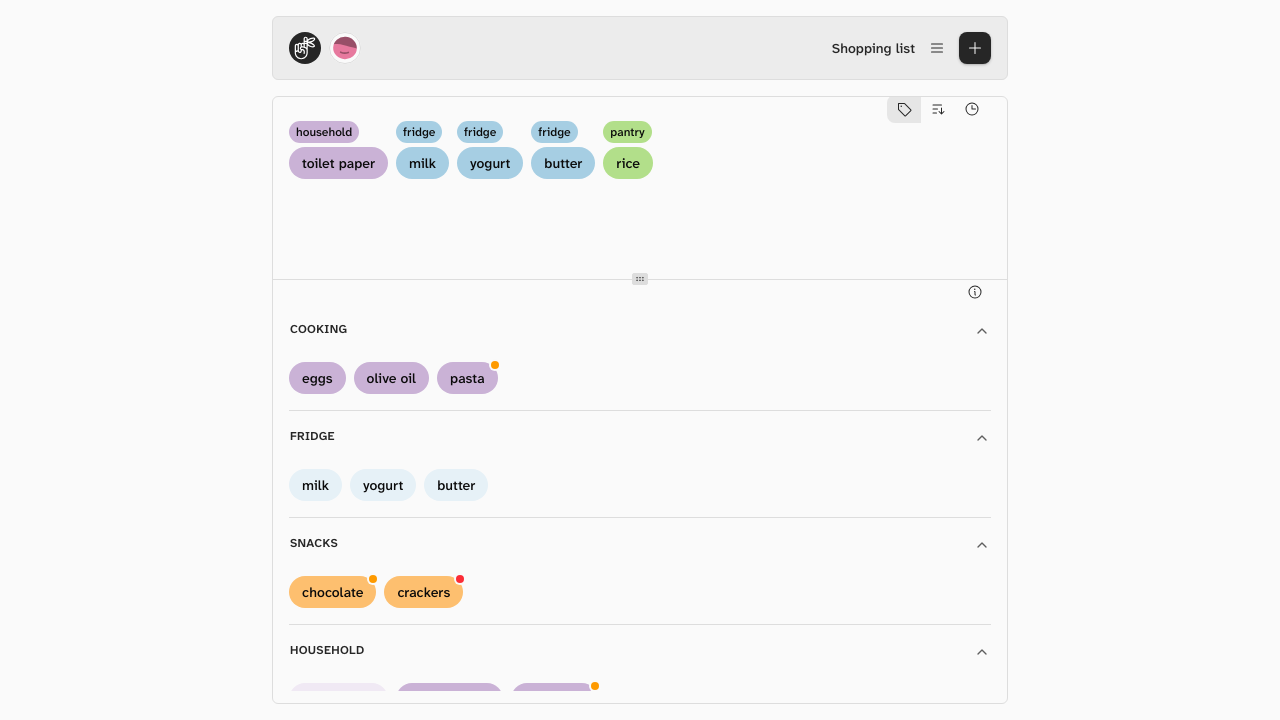
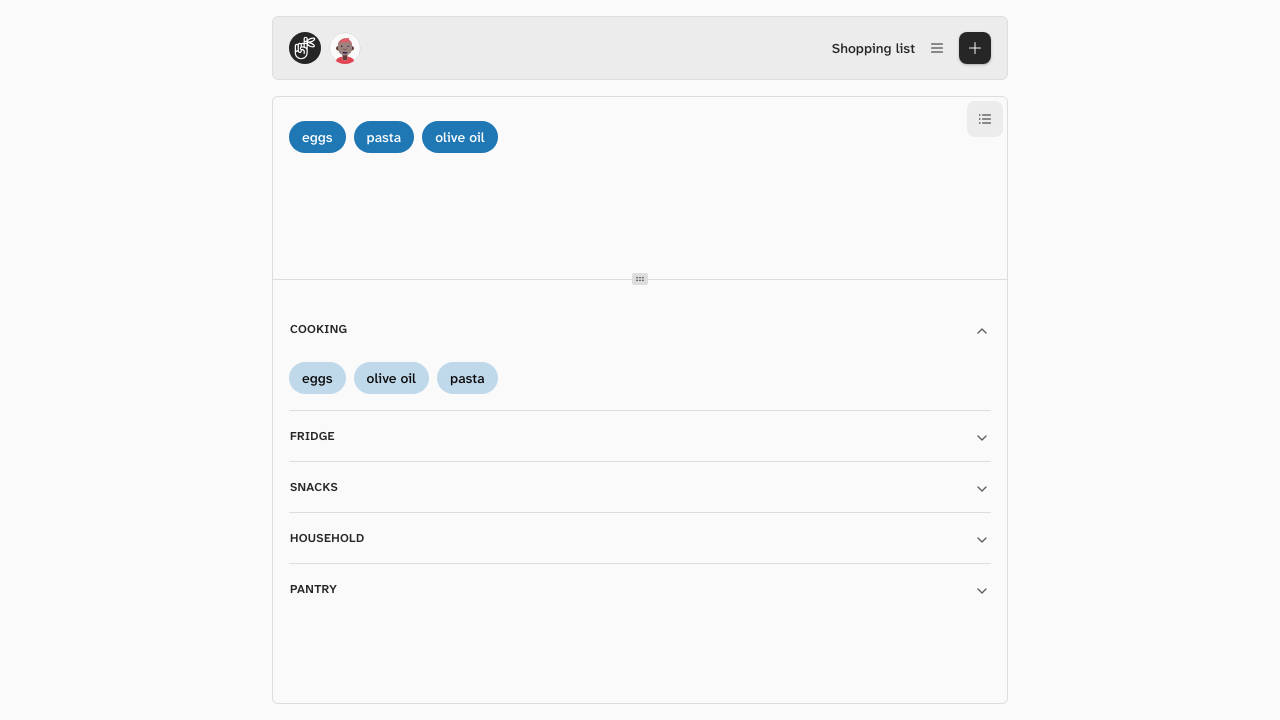
chore: release v3.4.0

diff --git a/src/views/about.tsx b/src/views/about.tsx
@@ -68,9 +68,9 @@ const AboutView = () => (
           items consistently across the app.
         </li>
         <li>
-          <strong>Ordering controls</strong>: toggle category grouping and sort
-          your list by category/name or most recently added — your choice is
-          remembered.
+          <strong>Ordering controls</strong>: a floating sort button cycles your
+          list between category/name, most-recently-added, and alphabetical
+          (A–Z) — your choice is remembered.
         </li>
         <li>
           <strong>Theme</strong>: pick dark, light, or system and your

diff --git a/src/views/help.tsx b/src/views/help.tsx
@@ -46,7 +46,8 @@ const HelpView = () => (
         </li>
         <li>
           Your list is grouped by category. Check items off as you put them in
-          the cart.
+          the cart. Use the floating sort button above the list to cycle
+          between category, most-recent, and alphabetical (A–Z) order.
         </li>
         <li>
           Need something that isn&rsquo;t in the catalog yet? Tap the{" "}

diff --git a/CHANGELOG.md b/CHANGELOG.md
@@ -2,6 +2,31 @@
 
 All notable changes to Remindit will be documented in this file.
 
+## v3.4.0 — 2026-08-30
+
+_Your list gets lighter and more distinct — alphabetical sorting, distinct category colors, and a faster, more accessible shopping experience._
+
+### ✨ New Features
+
+- **Alphabetical Sorting**: The shopping-list sort button now cycles through three modes — category/name, most-recently-added, and a new alphabetical (A–Z) order — so you can find items the way you like
+- **Distinct Category Colors**: Categories now get a stable sequential palette slot at creation (not a hash), so each of your first 12 categories gets a unique, consistent color across the catalog and your list — no more accidental duplicates like fridge/snacks sharing a hue
+- **Faster Startup**: Secondary routes (About, Catalog, Changelog, Help, History, Profile) are now code-split and lazy-loaded, shrinking the initial bundle by ~34% so the main shopping view loads quicker
+- **Accessible Landmark**: The main routed content is wrapped in a proper `<main>` landmark for screen-reader navigation
+
+### 🔧 Improvements
+
+- **Floating Sort Control**: The shopping-list sort toggle is now a floating Shark UI Float pinned to the top-right of the list — it no longer wastes a header row and uses the secondary variant for a cleaner look
+- **Cleaner Catalog**: Only the first category accordion opens by default, and the recommendation legend/tooltip was removed from the available-items panel for a less cluttered view
+- **Simpler Chips**: Shopping-list chips no longer show a redundant category-name badge — the color-coded tint already conveys the category
+- **Fresh Avatars**: DiceBear avatar style switched from Cameo to Personas for a more personable default profile
+- **Help & About**: Documentation updated to cover the new alphabetical sort and floating sort button
+
+### 🐛 Fixes
+
+- **History Categories Stay Accurate**: History rows now render the category name snapshot stored when the event happened, so renamed or deleted categories no longer show stale or missing labels; palette lookups for history and chips are now reactive via a `$categoryById` Map and stay correct after recolors
+- **PWA Service Worker in Dev**: Fixed a false `navigateFallback` injection that caused the dev service worker to throw at evaluation time because `index.html` wasn't in the dev precache — detection now uses `NODE_ENV` instead of `process.argv`
+- **Shopping List Layout**: Wrapped rows now pack to the top (`content-start`) instead of stretching, and deprecated category-visibility state was pruned
+
 ## v3.3.0 — 2026-08-29
 
 _Your shopping history arrives, adding items is faster, and Remindit now nudges you to install it as a real app — all wrapped in a more robust offline experience._
